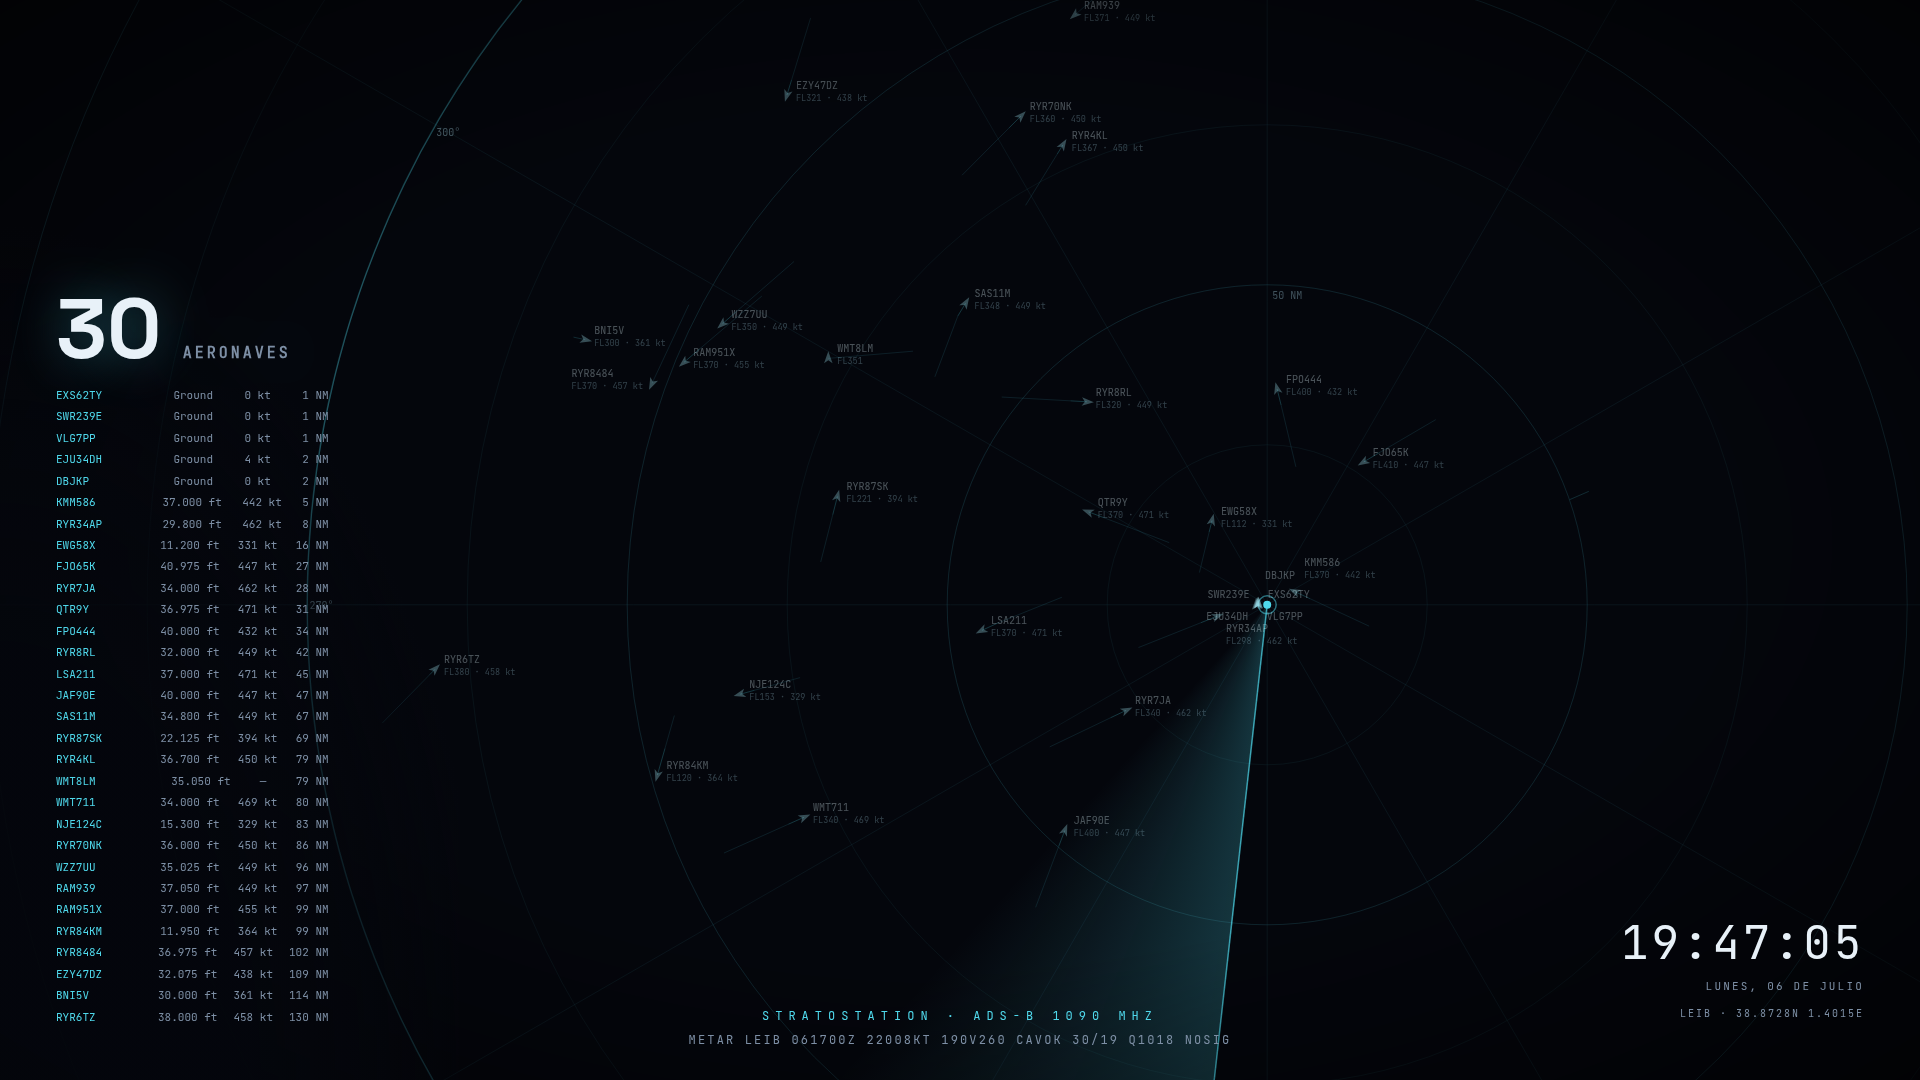
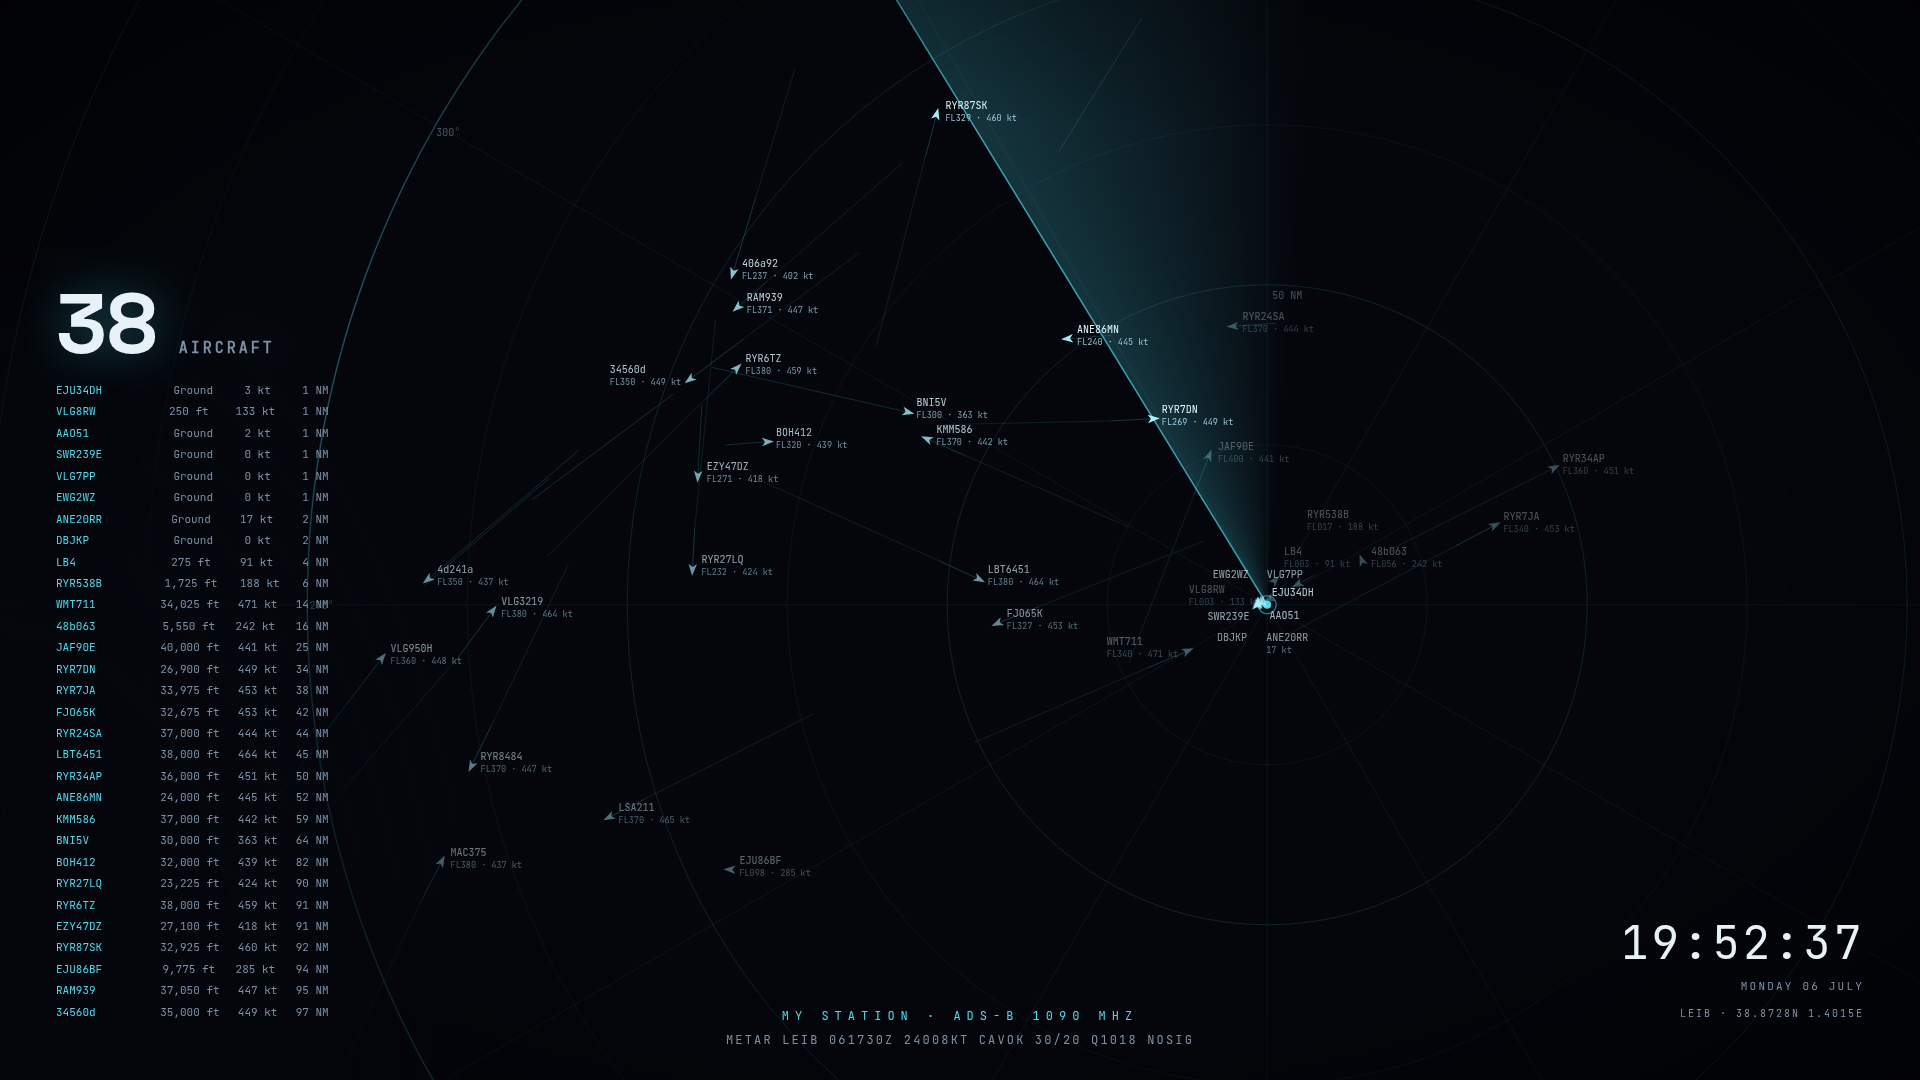
docs: English screenshot + 2:1 social preview image

diff --git a/README.es.md b/README.es.md
@@ -5,7 +5,7 @@ real en vivo** recibido por tu propia estación ADS-B — con barrido giratorio,
 etiquetas sin solapes, METAR en directo que se teclea solo como un teletipo, y números que ruedan
 como una caja registradora.
 
-![Salvapantallas radar ADS-B con 30 aeronaves reales sobre Ibiza](docs/screenshot.png)
+![Salvapantallas radar ADS-B con 38 aeronaves reales sobre Ibiza](docs/screenshot.png)
 
 **Demo en vivo (tráfico real sobre Ibiza, ahora mismo):**
 https://strato88.duckdns.org/status/radar.html

diff --git a/README.md b/README.md
@@ -4,7 +4,7 @@ A full-screen, ATC-style radar screensaver showing **real live air traffic** rec
 ADS-B station — with a rotating sweep, position trails, non-overlapping labels, live METAR that
 types itself out like a teletype, and numbers that roll like a cash register.
 
-![ADS-B radar screensaver showing 30 live aircraft over Ibiza](docs/screenshot.png)
+![ADS-B radar screensaver showing 38 live aircraft over Ibiza](docs/screenshot.png)
 
 **Live demo (real traffic over Ibiza, right now):**
 https://strato88.duckdns.org/status/radar.html